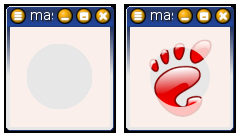
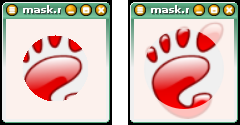
* larger.

diff --git a/sample/kof2005/gesture.rb b/sample/kof2005/gesture.rb
@@ -5,7 +5,7 @@ require 'gtk2'
 Gtk.init
 
 class GestureProcessor
-  DEFAULT_THRESHOLD = 32
+  DEFAULT_THRESHOLD = 64
   DEFAULT_SKEW_THRESHOLD_ANGLE = 30
     
   attr_accessor :threshold, :skew_threshold_angle
@@ -356,6 +356,7 @@ class Layout < Gtk::Layout
 end
 
 window = Gtk::Window.new
+window.set_default_size(512, 400)
 
 window.signal_connect("destroy") do
   Gtk.main_quit
@@ -373,7 +374,7 @@ end
 layout = Layout.new
 
 gestured_widget = GesturedWidget.new
-gestured_widget.set_size_request(50, 50)
+gestured_widget.set_size_request(250, 250)
 gestured_widget.signal_connect("expose_event") do |widget, event|
   x, y, w, h = widget.allocation.to_a
   cr = widget.window.create_cairo_context
@@ -385,11 +386,11 @@ gestured_widget.signal_connect("expose_event") do |widget, event|
   false
 end
 
-layout.put(gestured_widget, 75, 75)
+layout.put(gestured_widget, 130, 130)
 
 
 gestured_widget2 = GesturedWidget.new
-gestured_widget2.set_size_request(100, 50)
+gestured_widget2.set_size_request(200, 100)
 gestured_widget2.signal_connect("expose_event") do |widget, event|
   x, y, w, h = widget.allocation.to_a
   cr = widget.window.create_cairo_context
@@ -401,11 +402,11 @@ gestured_widget2.signal_connect("expose_event") do |widget, event|
   false
 end
 
-layout.put(gestured_widget2, 0, 25)
+layout.put(gestured_widget2, 50, 25)
 
 
 # gesture handlers
-expand_size = 20
+expand_size = 50
 
 expand_left = Proc.new do |widget|
   x = layout.child_get_property(widget, :x)

diff --git a/sample/kof2005/high-light-widget.rb b/sample/kof2005/high-light-widget.rb
@@ -78,12 +78,26 @@ class Layout < Gtk::Layout
 end
 
 window = Gtk::Window.new
+window.set_default_size(512, 400)
+
+window.signal_connect("destroy") do
+  Gtk.main_quit
+  true
+end
+window.signal_connect("key_press_event") do |widget, event|
+  if event.state.control_mask? and event.keyval == Gdk::Keyval::GDK_q
+    widget.destroy
+    true
+  else
+    false
+  end
+end
 
 hl = HighLight.new
 layout = Layout.new(hl)
 
 rect = Widget.new
-rect.set_size_request(130, 130)
+rect.set_size_request(260, 260)
 rect.signal_connect("expose_event") do |widget, event|
   x, y, w, h = widget.allocation.to_a
   cr = widget.window.create_cairo_context
@@ -101,10 +115,10 @@ rect.signal_connect("expose_event") do |widget, event|
   cr.stroke
   false
 end
-layout.put(rect, 20, 20)
+layout.put(rect, 80, 30)
   
 circ = Widget.new
-circ.set_size_request(100, 100)
+circ.set_size_request(250, 250)
 circ.signal_connect("expose_event") do |widget, event|
   x, y, w, h = widget.allocation.to_a
   cr = widget.window.create_cairo_context
@@ -123,7 +137,7 @@ circ.signal_connect("expose_event") do |widget, event|
   cr.stroke
   false
 end
-layout.put(circ, 80, 80)
+layout.put(circ, 180, 140)
 
 window.add(layout)
 window.show_all

diff --git a/sample/kof2005/high-light-expose.rb b/sample/kof2005/high-light-expose.rb
@@ -54,11 +54,25 @@ class Widget < Gtk::EventBox
 end
 
 window = Gtk::Window.new
+window.set_default_size(512, 400)
+
+window.signal_connect("destroy") do
+  Gtk.main_quit
+  true
+end
+window.signal_connect("key_press_event") do |widget, event|
+  if event.state.control_mask? and event.keyval == Gdk::Keyval::GDK_q
+    widget.destroy
+    true
+  else
+    false
+  end
+end
 
 layout = Gtk::Layout.new
 
 rect = Widget.new
-rect.set_size_request(130, 130)
+rect.set_size_request(260, 260)
 rect.signal_connect("expose_event") do |widget, event|
   x, y, w, h = widget.allocation.to_a
   cr = widget.window.create_cairo_context
@@ -76,10 +90,10 @@ rect.signal_connect("expose_event") do |widget, event|
   cr.stroke
   false
 end
-layout.put(rect, 20, 20)
+layout.put(rect, 80, 30)
   
 circ = Widget.new
-circ.set_size_request(100, 100)
+circ.set_size_request(250, 250)
 circ.signal_connect("expose_event") do |widget, event|
   x, y, w, h = widget.allocation.to_a
   cr = widget.window.create_cairo_context
@@ -98,7 +112,7 @@ circ.signal_connect("expose_event") do |widget, event|
   cr.stroke
   false
 end
-layout.put(circ, 80, 80)
+layout.put(circ, 180, 140)
 
 window.add(layout)
 window.show_all

diff --git a/sample/kof2005/mask.rb b/sample/kof2005/mask.rb
@@ -7,7 +7,7 @@ Gtk.init
 width = 100
 height = 100
 
-use_area = false
+use_area = ARGV.empty?
 
 window = Gtk::Window.new
 window.set_default_size(width, height)
@@ -35,8 +35,13 @@ end
 layout = Gtk::Layout.new
 
 name = File.join(File.dirname(__FILE__), "ruby-gnome2-logo.png")
-image = Gtk::Image.new(name)
-layout.put(image, 10, 10)
+loader = Gdk::PixbufLoader.new
+File.open(name, "rb") do |f|
+  loader.last_write(f.read)
+end
+pixbuf = loader.pixbuf
+image = Gtk::Image.new(pixbuf.scale(width, height))
+layout.put(image, 0, 0)
 
 area = Gtk::DrawingArea.new
 area.set_size_request(width, height)
@@ -81,7 +86,7 @@ box.signal_connect("expose_event") do |widget, event|
   cr.set_source_rgba(rgba)
 
   cr.rectangle(0, 0, 1, 1)
-  cr.arc_negative(0.5, 0.5, 0.3, 2 * Math::PI, 0)
+  cr.arc_negative(0.5, 0.5, 0.4, 2 * Math::PI, 0)
   cr.close_path
   cr.fill
   false
